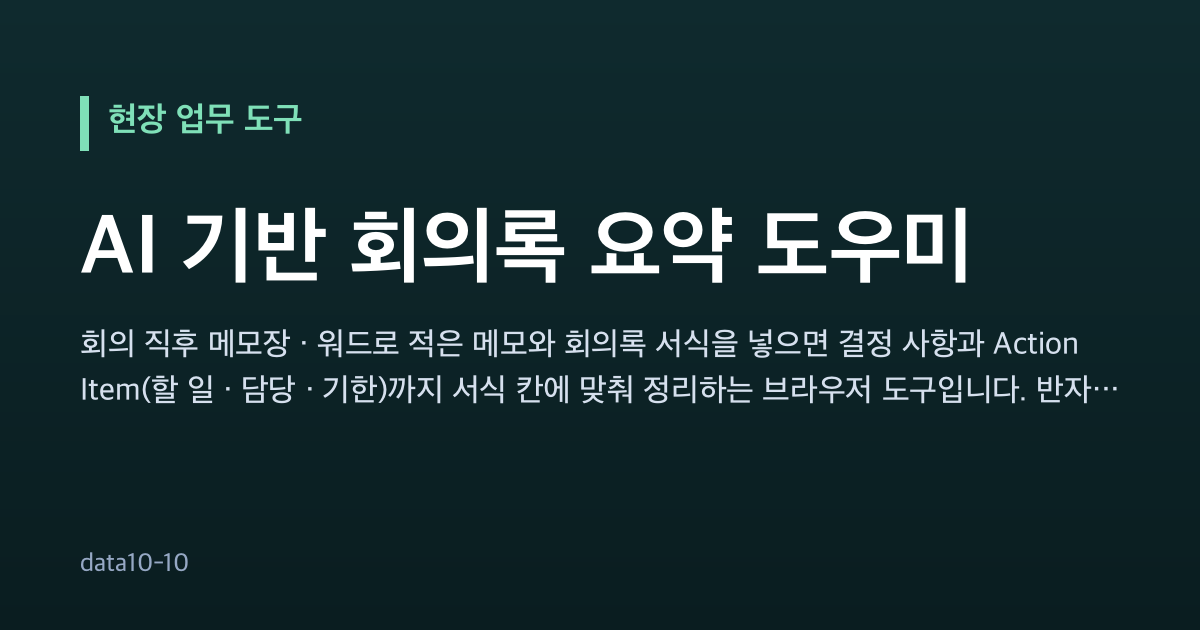
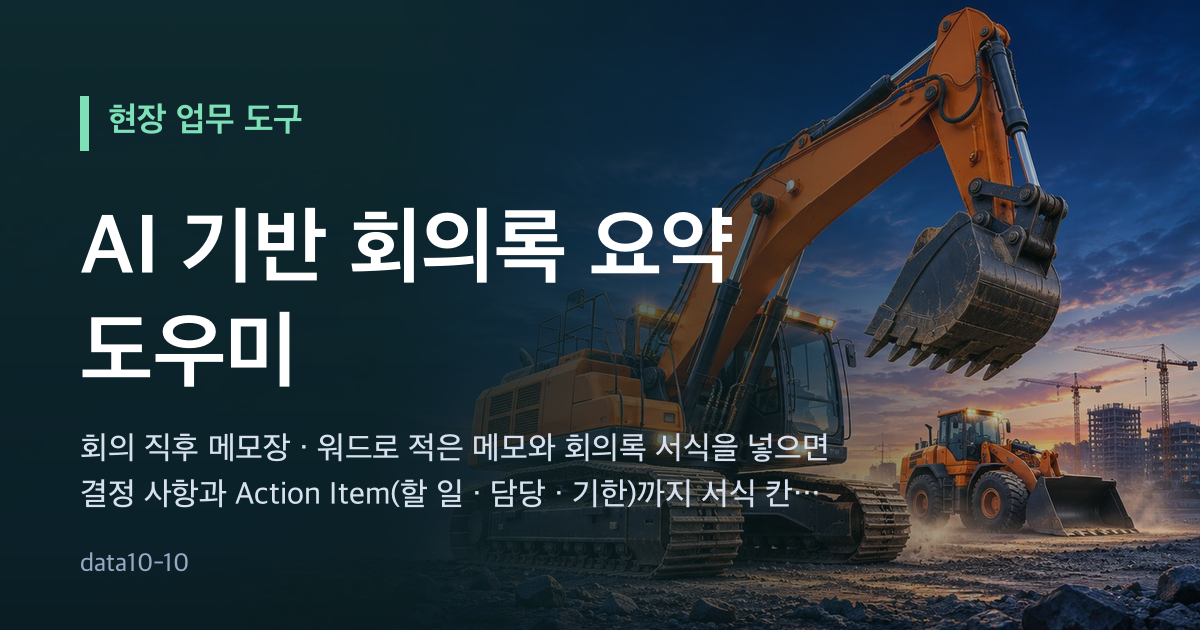
개발 자료 전체 공개 — 개발일지 · 기획서 원문 · 시험 · SQL · 스크립트 · README (수강생 내려받기용)

diff --git a/index.html b/index.html
@@ -12,9 +12,16 @@
   <meta property="og:description" content="회의 직후 메모장 · 워드로 적은 메모와 회의록 서식을 넣으면 결정 사항과 Action Item(할 일 · 담당 · 기한)까지 서식 칸에 맞춰 정리하는 브라우저 도구입니다. 반자동 AI · 로컬 LLM · AI 없는 규칙 초안 중 하나로 정리합니다.">
   <meta property="og:url" content="https://data10-10.jobability.co.kr/">
   <meta property="og:image" content="https://data10-10.jobability.co.kr/og-image.png">
+  <meta property="og:image:secure_url" content="https://data10-10.jobability.co.kr/og-image.png">
+  <meta property="og:image:type" content="image/png">
   <meta property="og:image:width" content="1200">
   <meta property="og:image:height" content="630">
+  <meta property="og:image:alt" content="AI 기반 회의록 요약 도우미">
+  <meta property="og:locale" content="ko_KR">
   <meta name="twitter:card" content="summary_large_image">
+  <meta name="twitter:title" content="AI 기반 회의록 요약 도우미">
+  <meta name="twitter:description" content="회의 직후 메모장 · 워드로 적은 메모와 회의록 서식을 넣으면 결정 사항과 Action Item(할 일 · 담당 · 기한)까지 서식 칸에 맞춰 정리하는 브라우저 도구입니다. 반자동 AI · 로컬 LLM · AI 없는 규칙 초안 중 하나로 정리합니다.">
+  <meta name="twitter:image" content="https://data10-10.jobability.co.kr/og-image.png">
   <link rel="icon" href="favicon.svg" type="image/svg+xml">
   <!-- /seo-kit -->
   <meta name="description" content="회의 직후 메모장·워드로 적은 메모와 회의록 서식을 넣으면 결정 사항·Action Item(담당·기한)까지 서식에 맞춰 정리하는 브라우저 도구(data10-10). AI 는 반자동(복사·붙여 넣기)·로컬 LLM·AI 없는 규칙 초안 중에서 고릅니다.">
@@ -30,11 +37,11 @@
        탭 전환·포커스로는 옮기지 않는다(입력 유실). ETag 는 Cloudflare 가 지워서 쓸 수 없다. 원본: dreamit-1000/scripts/fresh-guard/guard.html
        data10-10: file:// 로 열면(사내 PC 의 HTML 한 파일) 아무것도 하지 않는다 — file 주소는 fetch 를 못 해 콘솔 오류만 남기 때문(2026-11-10). -->
   <script>(function(){try{var L=location,P='_fg',h=window.history,q=L.search;if(L.protocol==='file:')return;if(/[?&]_fg=/.test(q)&&h&&h.replaceState){q=q.replace(/([?&])_fg=[^&]*&?/,'$1').replace(/[?&]$/,'');h.replaceState(h.state,'',L.pathname+q+L.hash);}var d=Date.parse(document.lastModified),u=L.pathname+L.search,k='__fresh_guard',t=0;if(!d||!window.fetch||!window.sessionStorage)return;var g=function(s,v){return s+(s.indexOf('?')<0?'?':'&')+P+'='+v;};var c=function(){var n=Date.now();if(n-t<15000)return;t=n;fetch(g(u,n),{method:'HEAD',cache:'no-store'}).then(function(r){var lm=r.headers.get('last-modified'),f=lm&&Date.parse(lm);if(!f||f<=d+1000)return;if(sessionStorage.getItem(k)===lm)return;sessionStorage.setItem(k,lm);L.replace(g(L.pathname+L.search,f)+L.hash);})['catch'](function(){});};c();var p=h&&h.pushState;if(p)h.pushState=function(){var x=p.apply(this,arguments);c();return x;};addEventListener('hashchange',c);addEventListener('popstate',c);}catch(e){}})();</script>
-  <link rel="stylesheet" href="css/style.css?v=2026-11-11.7">
+  <link rel="stylesheet" href="css/style.css?v=2026-11-11.8">
   <!-- auth-kit: 로그인 전에는 도구 화면을 감춘다(js/auth.js 가 판정 뒤 푼다) -->
   <script>document.documentElement.classList.add('auth-lock')</script>
-  <link rel="stylesheet" href="css/auth.css?v=2026-11-11.7">
-  <link rel="stylesheet" href="css/board.css?v=2026-11-11.7">
+  <link rel="stylesheet" href="css/auth.css?v=2026-11-11.8">
+  <link rel="stylesheet" href="css/board.css?v=2026-11-11.8">
   <!-- /auth-kit -->
 </head>
 <body>
@@ -67,17 +74,17 @@
   <div id="toast" class="toast" role="status" aria-live="polite" hidden></div>
 
   <!-- 로컬 파일(file://)로 열어도 돌도록 module 이 아닌 일반 스크립트로 불러옵니다. 외부 CDN 을 부르지 않습니다 -->
-  <script src="vendor/jszip.min.js?v=2026-11-11.7"></script>
-  <script src="js/logic.js?v=2026-11-11.7"></script>
-  <script src="js/samples.js?v=2026-11-11.7"></script>
-  <script src="js/ai-endpoint.js?v=2026-11-11.7"></script>
-  <script src="js/ai-panel.js?v=2026-11-11.7"></script>
-  <script src="js/app.js?v=2026-11-11.7"></script>
+  <script src="vendor/jszip.min.js?v=2026-11-11.8"></script>
+  <script src="js/logic.js?v=2026-11-11.8"></script>
+  <script src="js/samples.js?v=2026-11-11.8"></script>
+  <script src="js/ai-endpoint.js?v=2026-11-11.8"></script>
+  <script src="js/ai-panel.js?v=2026-11-11.8"></script>
+  <script src="js/app.js?v=2026-11-11.8"></script>
   <!-- auth-kit: 로그인 · 사용 신청 · 승인(정본 data10-00/kit/auth) -->
-  <script src="vendor/supabase.js?v=2026-11-11.7"></script>
-  <script src="js/auth-config.js?v=2026-11-11.7"></script>
-  <script src="js/board.js?v=2026-11-11.7"></script>
-  <script src="js/auth.js?v=2026-11-11.7"></script>
+  <script src="vendor/supabase.js?v=2026-11-11.8"></script>
+  <script src="js/auth-config.js?v=2026-11-11.8"></script>
+  <script src="js/board.js?v=2026-11-11.8"></script>
+  <script src="js/auth.js?v=2026-11-11.8"></script>
   <!-- /auth-kit -->
 </body>
 </html>

diff --git a/dist/data10-10_회의록요약도우미.html b/dist/data10-10_회의록요약도우미.html
@@ -958,7 +958,7 @@ https://github.com/nodeca/pako/blob/main/LICENSE
   'use strict';
   /* 판(版) — index.html 의 ?v= · app.js 의 APP_VERSION 과 같아야 합니다(scripts/bump-version.mjs 로 함께 올림).
      브라우저가 옛 logic.js 와 새 app.js 를 섞어 쓰면 app.js 가 이 값을 보고 계산을 멈춥니다. */
-  var VERSION = '2026-11-11.7';
+  var VERSION = '2026-11-11.8';
 
   var SCHEMA = 1;
 
@@ -2430,7 +2430,7 @@ https://github.com/nodeca/pako/blob/main/LICENSE
   var L = window.MinutesLogic, SM = window.MinutesSamples, AIP = window.AIPanel, AIE = window.AIEndpoint;
   /* 판 맞추기 — 브라우저가 옛 logic.js 와 새 app.js 를 섞어 쓰면(Pages 캐시) 버튼과 결과가 어긋날 수 있어, 섞였으면 계산하지 않고 새로고침을 안내합니다.
      판은 scripts/bump-version.mjs 로 index.html(?v=) · logic.js 와 함께 올립니다. */
-  var APP_VERSION = '2026-11-11.7';
+  var APP_VERSION = '2026-11-11.8';
   if (!L || L.VERSION !== APP_VERSION) {
     var m0 = document.getElementById('main') || document.body;
     m0.innerHTML = '<section class="card" id="versionMismatch"><h1>새 판이 나왔습니다 — 새로고침(Ctrl+F5)해 주세요</h1><p class="alert warn">이 브라우저가 옛 파일과 새 파일을 섞어 불러왔습니다(js/logic.js ' +
@@ -3849,6 +3849,12 @@ window.AUTH_CONFIG = {
       box.classList.toggle('hp-sl-light', !!(sl[i] && sl[i].tone === 'light'));   // 밝은 사진이면 글자를 어둡게
     }
     go(0);
+    // slides[].anim(움직이는 그림 gif) — 먼저 가벼운 사진을 보이고, 화면이 뜬 뒤 받아서 바꿔 끼운다(데이터 절약 · 모션 최소화면 건너뜀)
+    var conn = navigator.connection || {};
+    if (!reduce && !conn.saveData) sl.forEach(function (x, k) {
+      if (!x.anim || !track.children[k]) return;
+      setTimeout(function () { var im = new Image(); im.onload = function () { if (document.body.contains(track)) track.children[k].style.backgroundImage = 'url("' + absUrl(x.anim) + '")'; }; im.src = absUrl(x.anim); }, 1500);
+    });
     box.querySelectorAll('[data-sl]').forEach(function (b) {
       b.onclick = function () {
         var v = b.getAttribute('data-sl');

diff --git a/js/auth.js b/js/auth.js
@@ -233,6 +233,12 @@
       box.classList.toggle('hp-sl-light', !!(sl[i] && sl[i].tone === 'light'));   // 밝은 사진이면 글자를 어둡게
     }
     go(0);
+    // slides[].anim(움직이는 그림 gif) — 먼저 가벼운 사진을 보이고, 화면이 뜬 뒤 받아서 바꿔 끼운다(데이터 절약 · 모션 최소화면 건너뜀)
+    var conn = navigator.connection || {};
+    if (!reduce && !conn.saveData) sl.forEach(function (x, k) {
+      if (!x.anim || !track.children[k]) return;
+      setTimeout(function () { var im = new Image(); im.onload = function () { if (document.body.contains(track)) track.children[k].style.backgroundImage = 'url("' + absUrl(x.anim) + '")'; }; im.src = absUrl(x.anim); }, 1500);
+    });
     box.querySelectorAll('[data-sl]').forEach(function (b) {
       b.onclick = function () {
         var v = b.getAttribute('data-sl');

diff --git a/js/app.js b/js/app.js
@@ -6,7 +6,7 @@
   var L = window.MinutesLogic, SM = window.MinutesSamples, AIP = window.AIPanel, AIE = window.AIEndpoint;
   /* 판 맞추기 — 브라우저가 옛 logic.js 와 새 app.js 를 섞어 쓰면(Pages 캐시) 버튼과 결과가 어긋날 수 있어, 섞였으면 계산하지 않고 새로고침을 안내합니다.
      판은 scripts/bump-version.mjs 로 index.html(?v=) · logic.js 와 함께 올립니다. */
-  var APP_VERSION = '2026-11-11.7';
+  var APP_VERSION = '2026-11-11.8';
   if (!L || L.VERSION !== APP_VERSION) {
     var m0 = document.getElementById('main') || document.body;
     m0.innerHTML = '<section class="card" id="versionMismatch"><h1>새 판이 나왔습니다 — 새로고침(Ctrl+F5)해 주세요</h1><p class="alert warn">이 브라우저가 옛 파일과 새 파일을 섞어 불러왔습니다(js/logic.js ' +

diff --git a/js/logic.js b/js/logic.js
@@ -16,7 +16,7 @@
   'use strict';
   /* 판(版) — index.html 의 ?v= · app.js 의 APP_VERSION 과 같아야 합니다(scripts/bump-version.mjs 로 함께 올림).
      브라우저가 옛 logic.js 와 새 app.js 를 섞어 쓰면 app.js 가 이 값을 보고 계산을 멈춥니다. */
-  var VERSION = '2026-11-11.7';
+  var VERSION = '2026-11-11.8';
 
   var SCHEMA = 1;
 

diff --git a/docs/평가보고서/data10-10_평가보고서_2026-11-11.md b/docs/평가보고서/data10-10_평가보고서_2026-11-11.md
@@ -2,7 +2,7 @@
 
 - 과제: AI 기반 회의록 요약 도우미
 - 요청자: 나선준
-- 점검일: 2026-11-11 (라이브 점검 판 2026-11-11.6, 이 보고서와 함께 올리는 판 2026-11-11.7)
+- 점검일: 2026-11-11 (라이브 점검 판 2026-11-11.6, 이 보고서와 함께 올리는 판 2026-11-11.8)
 - 사이트: https://data10-10.jobability.co.kr/
 - 리포지토리: https://github.com/jungaistar/data10-10
 
@@ -34,7 +34,7 @@
 | 첫 화면 구성 | 충족 | 모양 사진 슬라이드 3장 · 기능 6 · 사용 순서 6 · 실제 화면 있음 |
 | 회사 로고(그림) | 받지 못함 | 로고 파일을 받지 못해 글자 또는 표기 없음 |
 | 기획서 페이지 · 실제 화면 그림 | 충족 | plan.html 200 · screen.png 200 |
-| 공유 미리보기 메타 · 아이콘 | 조치함 | 점검 때 og 메타 · 아이콘이 없어 판 2026-11-11.7 에서 넣음 |
+| 공유 미리보기 메타 · 아이콘 | 조치함 | 점검 때 og 메타 · 아이콘이 없어 넣음 — og:title · description · url · image(1200×630, 첫 화면 사진 바탕) · canonical |
 
 ## 3. 기능과 시험
 
@@ -64,7 +64,7 @@
 | Supabase 설정 파일 | 충족 | auth.sql · board.sql · site.sql · verify.sql |
 | Supabase 연결 안내 | 충족 | supabase/README.md (11단계 · 기대하는 값 · 자주 나는 문제) |
 | 내 깃허브로 옮기기 안내 | 충족 | docs/내_깃허브로_옮기기.md |
-| 기획서(워드) · 개발일지 · 변경 이력 | 충족 | 변경 이력 9건 · 커밋 15개 |
+| 기획서(워드) · 개발일지 · 변경 이력 | 충족 | 변경 이력 10건 · 커밋 16개 |
 | 공개 리포지토리(ZIP 내려받기) | 충족 | github.com/jungaistar/data10-10 |
 | 게시판 · 새 글 알림 · 첫 화면 고르기 | 충족 | 과정용 프로젝트에 SQL 적용 완료(표 · 정책 수 확인) |
 
@@ -75,13 +75,14 @@
 | 항목 | 결과 | 근거 |
 |---|---|---|
 | 내 깃허브에 배포 | 충족 | https://seonjunna.github.io/my-web/ , https://seonjunna.github.io/my-web2/ |
-| 최신 판으로 배포 | 미충족 | 배포된 판 2026-11-10.7 (최종 2026-11-11.7) |
+| 최신 판으로 배포 | 미충족 | 배포된 판 2026-11-10.7 (최종 2026-11-11.8) |
 | 게시판 포함 판 | 미충족 | 게시판이 들어가기 전 판 |
 | 내 Supabase 로 연결 | 미충족 | 아직 과정용 프로젝트 주소 그대로 |
 | 비밀 키 노출 없음 | 충족 | 설정 파일에 service_role · secret 키 없음 |
 
 ## 6. 변경 이력
 
+- 2026-11-11 점검 · 평가보고서 (판 2026-11-11.7)
 - 2026-11-11 요청 반영 (판 2026-11-11.6)
 - 2026-11-11 슬라이드 사진 (판 2026-11-11.5)
 - 2026-11-11 첫 화면 모양 고르기 (판 2026-11-11.3)

diff --git a/CHANGELOG.md b/CHANGELOG.md
@@ -2,6 +2,11 @@
 
 버전마다 기획서 워드 판을 `docs/기획서/` 에 남긴다(옛 판을 지우지 않는다).
 
+## 2026-11-11 최종 (판 2026-11-11.8)
+
+- 공유 미리보기 그림(og-image.png)을 첫 화면 사진 바탕으로, og · twitter 메타 보강
+- 평가보고서 갱신 `docs/평가보고서/`
+
 ## 2026-11-11 점검 · 평가보고서 (판 2026-11-11.7)
 
 - 16개 사이트 점검 결과와 평가보고서 `docs/평가보고서/`(md · docx)
